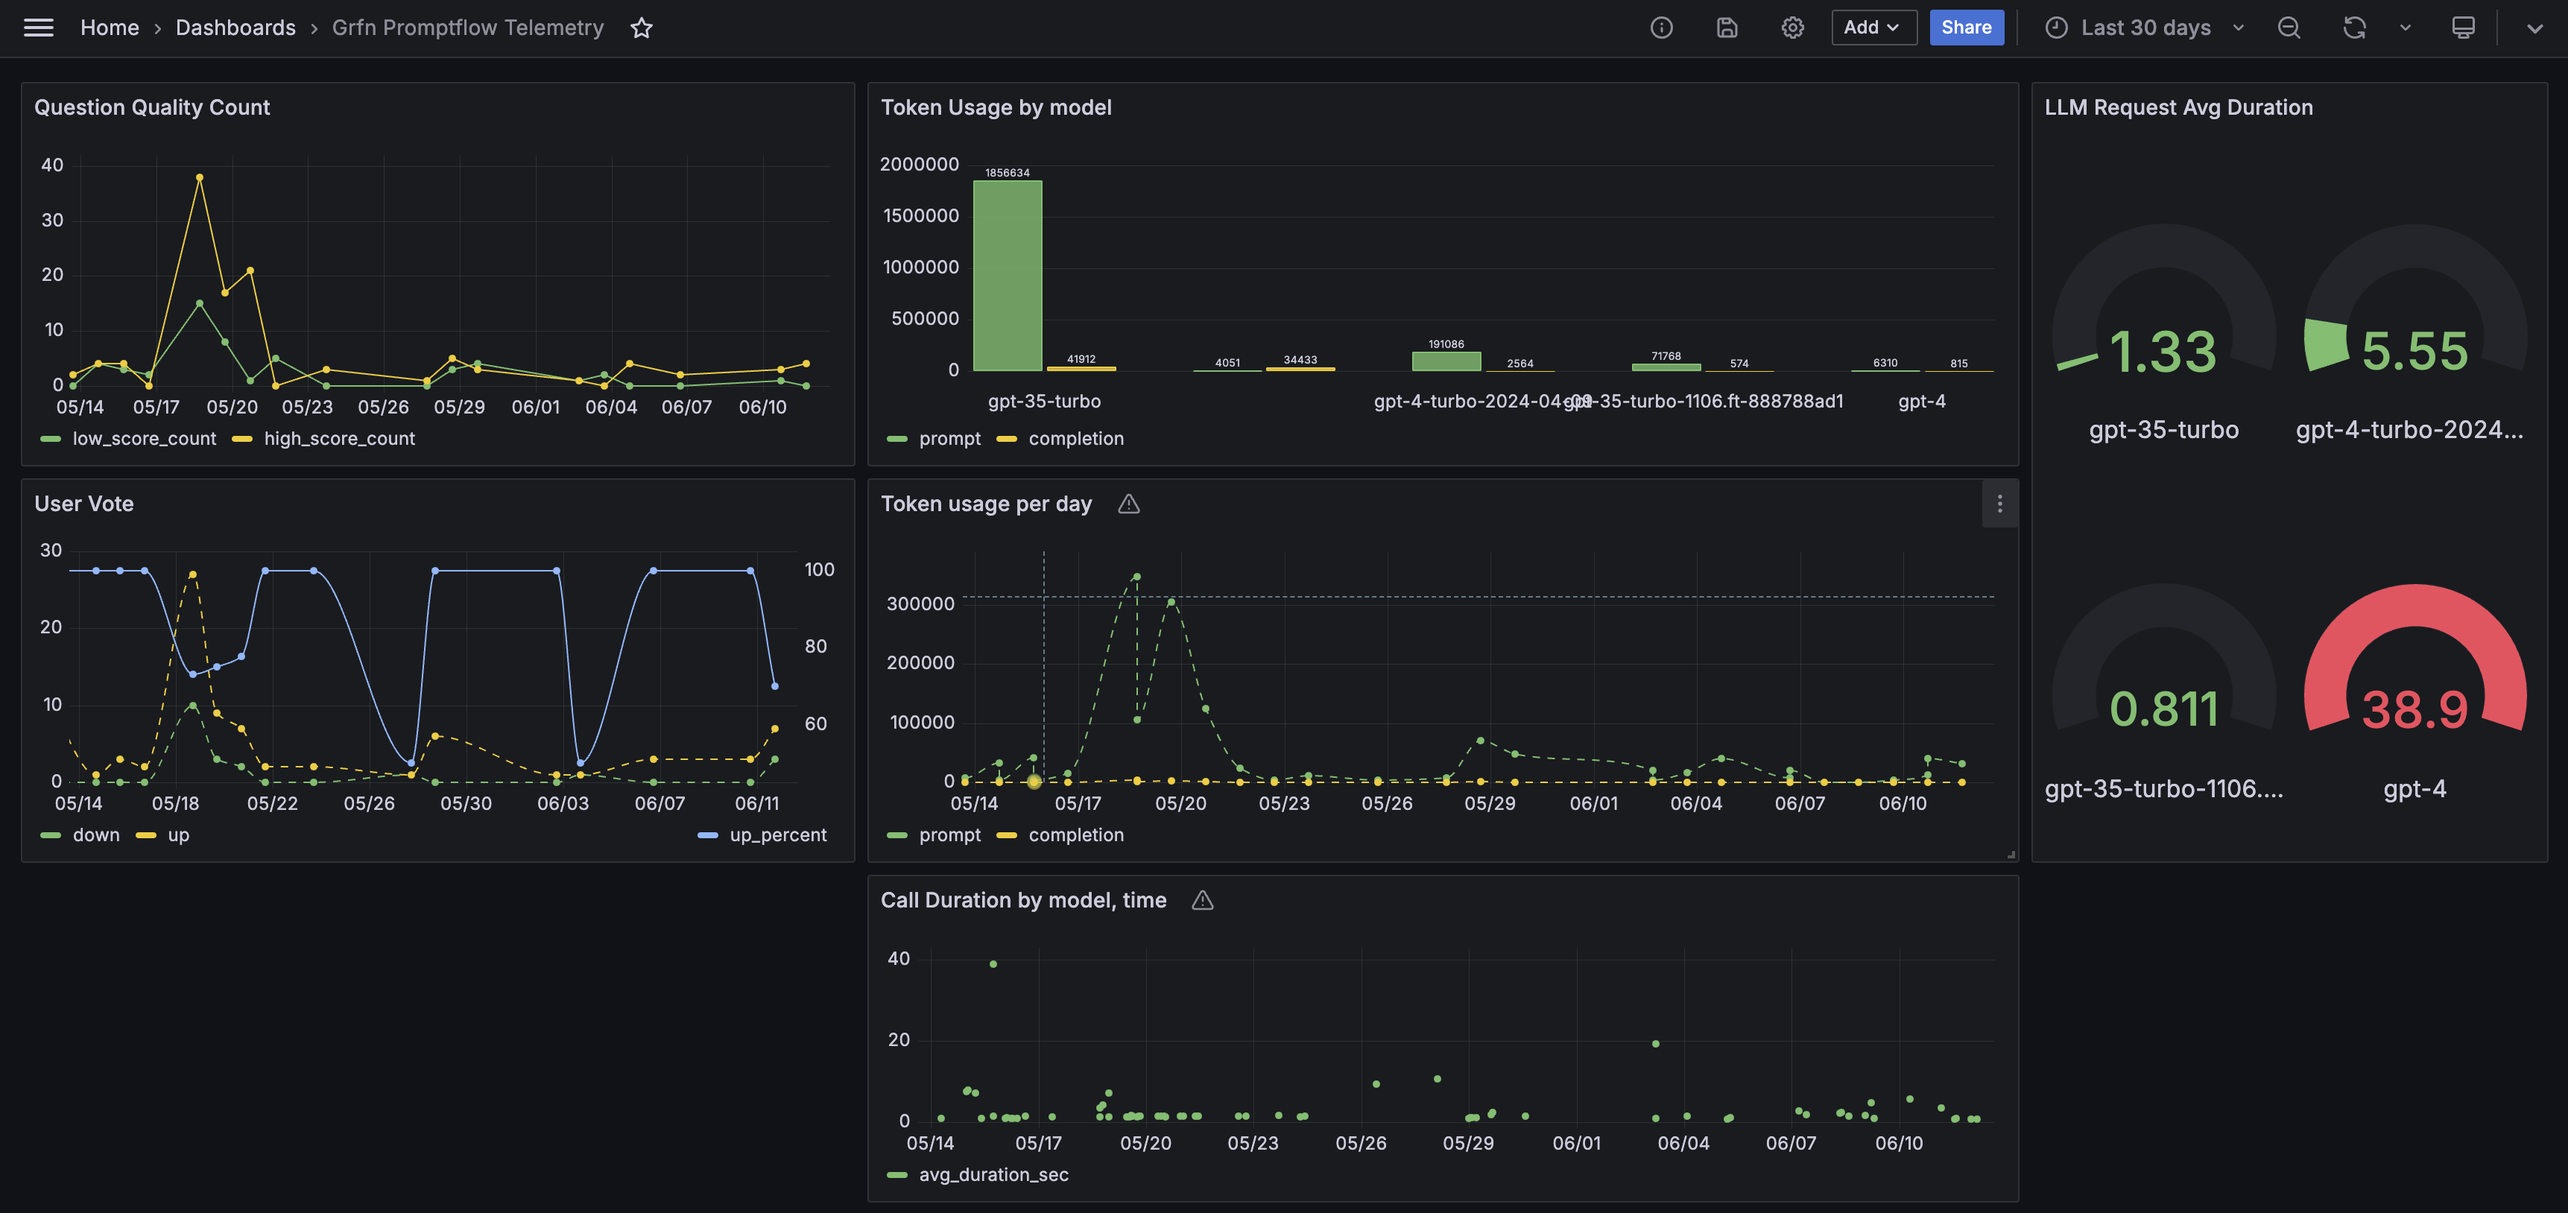
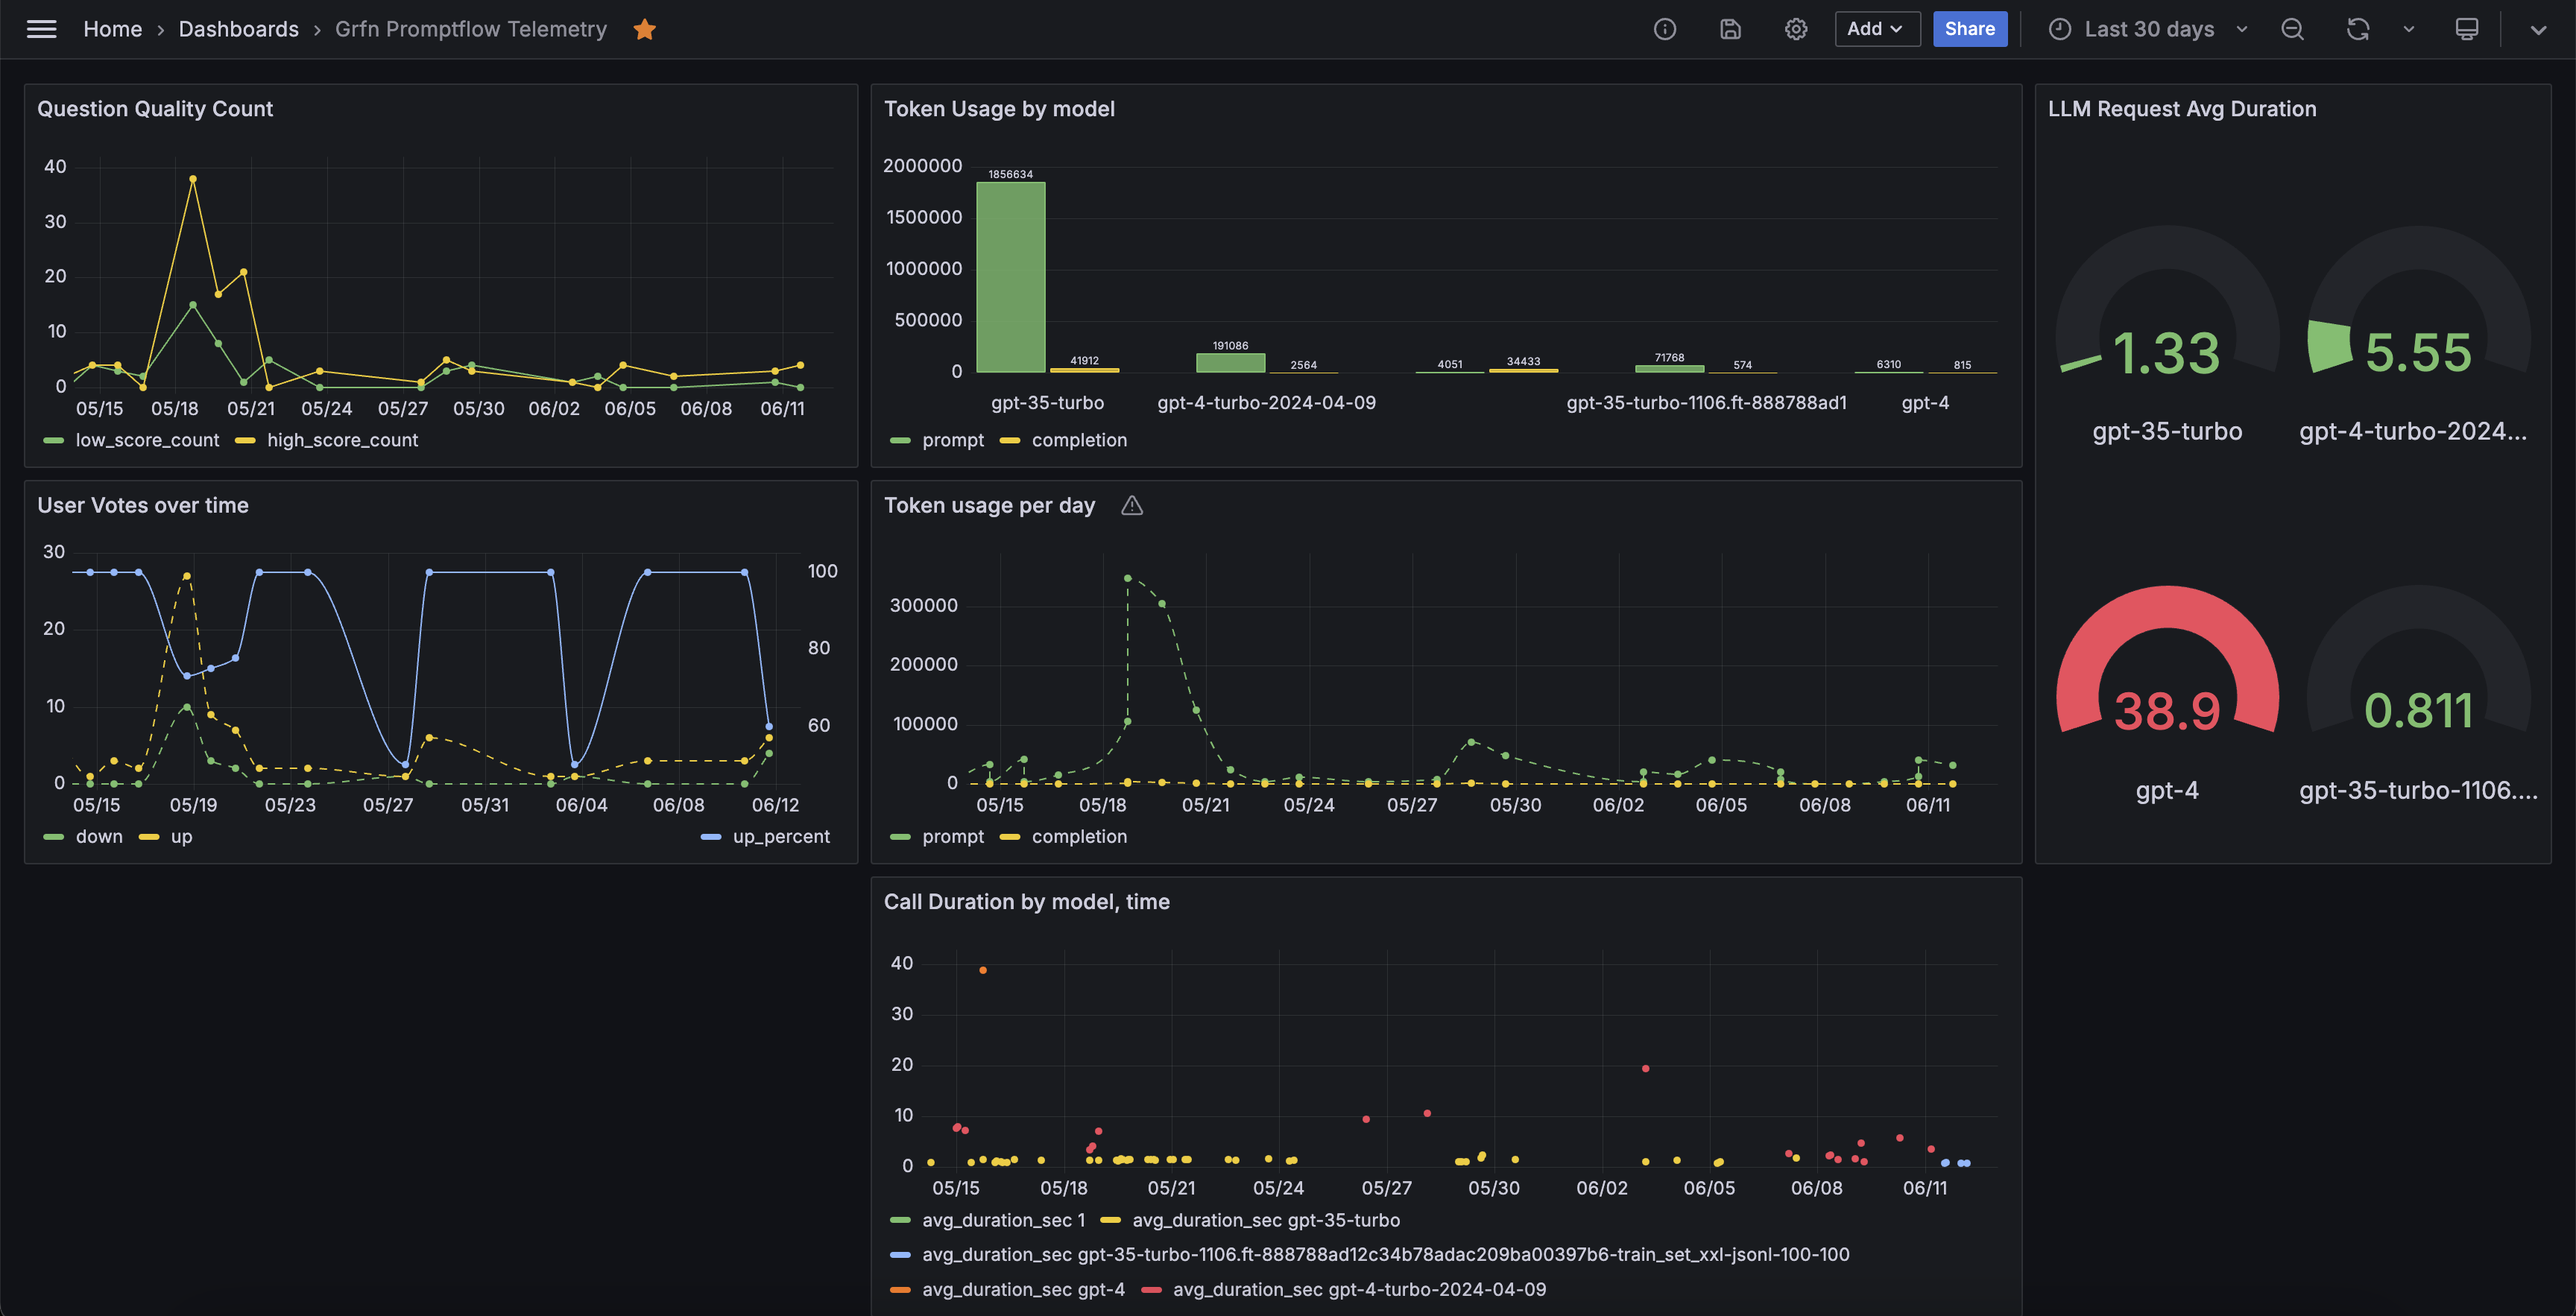
grafana

diff --git a/README-Azure-Monitor.md b/README-Azure-Monitor.md
@@ -61,7 +61,18 @@ Here are a few KQL queries that you can use to get started with building your ow
 
 > Note: As mentioned above, the property names and structure used in this demo are based on the current best practices and are guaranteed to change as the OpenAI Semantic Conventions for LLMs are finalized.
 
-- Average duration of OpenAI Chat calls by model/deployment name used:
+- Average duration of OpenAI Chat calls model and time:
+```kql
+AppDependencies
+| where Name in ("openai_chat_async", "Iterated(openai_chat)", "openai_chat")
+| extend output = parse_json(todynamic(tostring(Properties["output"])))
+| extend duration_sec = DurationMs / 1000, model = tostring(output.model)
+| summarize avg(duration_sec) by bin(TimeGenerated, 1h), model
+| order by TimeGenerated asc 
+| render timechart 
+```
+
+- Average duration of OpenAI Chat calls by model:
 ```kql
 AppDependencies
 | where Name in ("openai_chat_async", "Iterated(openai_chat)", "openai_chat")
@@ -78,7 +89,7 @@ AppDependencies
     total_tokens = toint(Properties["llm.usage.total_tokens"]),
     prompt_tokens = toint(Properties["llm.usage.prompt_tokens"]),
     completion_tokens = toint(Properties["llm.usage.completion_tokens"])
-| summarize sum(total_tokens), sum(prompt_tokens), sum(completion_tokens) by bin(TimeGenerated, 5m) 
+| summarize sum(total_tokens), sum(prompt_tokens), sum(completion_tokens) by bin(TimeGenerated, 1d) 
 | render timechart
 ```
 
@@ -96,6 +107,7 @@ AppDependencies
 | render columnchart 
 ```
 
+
 - User votes over time:
 ```kql
 AppTraces
@@ -103,8 +115,19 @@ AppTraces
 | extend vote = toint(Properties["gen_ai.evaluation.vote"]) 
 | project vote, OperationId, ParentId
 | join kind=innerunique AppDependencies on $left.OperationId == $right.OperationId and $left.ParentId == $right.Id
-| summarize down = countif(vote == 0), up = countif(vote == 1) by bin(TimeGenerated, 1d)
-| render columnchart 
+| summarize down = countif(vote == 0), up = countif(vote == 1), up_percent = 100*avg(vote) by bin(TimeGenerated, 1d)
+| render timechart  
+```
+
+- Question Quality over time:
+```kql
+AppTraces
+| where Properties["event.name"] == "gen_ai.evaluation.InDomainQuestion"
+| extend score = toint(Properties["gen_ai.evaluation.score"]) 
+| project score, OperationId, ParentId
+| join kind=innerunique AppDependencies on $left.OperationId == $right.OperationId and $left.ParentId == $right.Id
+| summarize low_score_count = countif(score <= 3), high_score_count = countif(score > 3) by bin(TimeGenerated, 1d)
+| render timechart 
 ```
 
 Here an example of a Grafana dashboard with the above queries:
